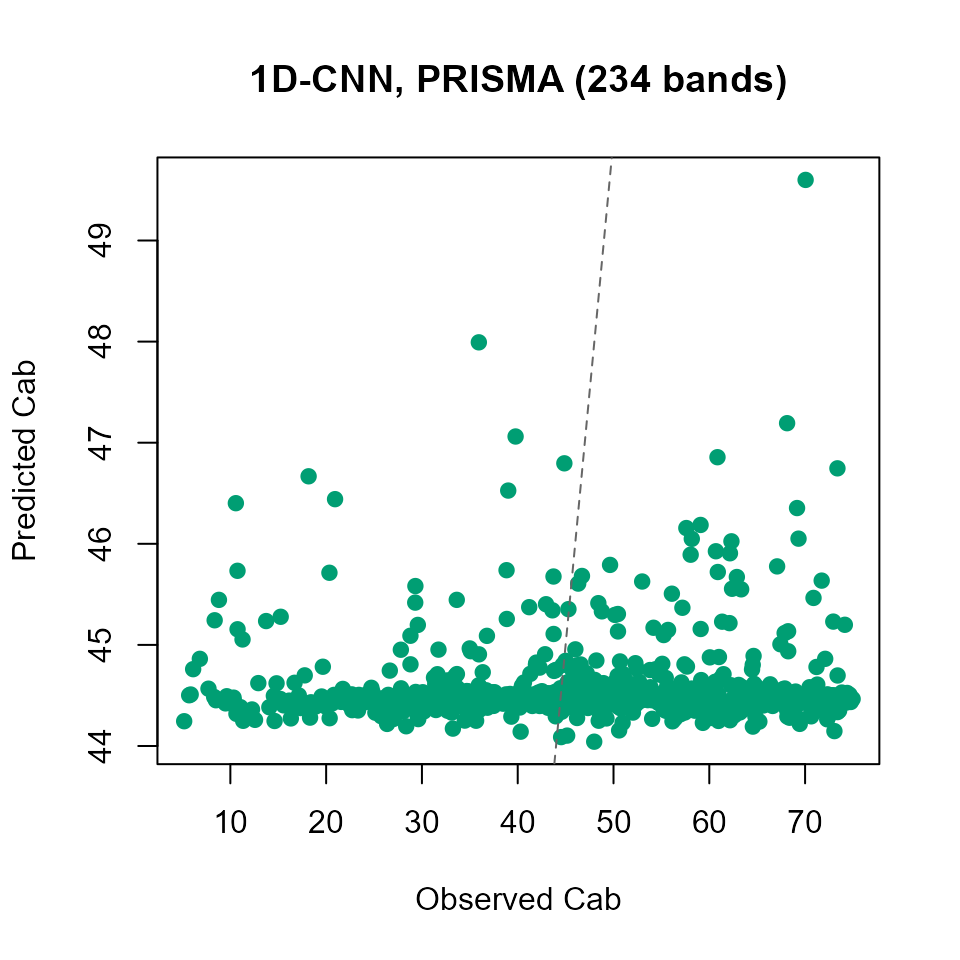
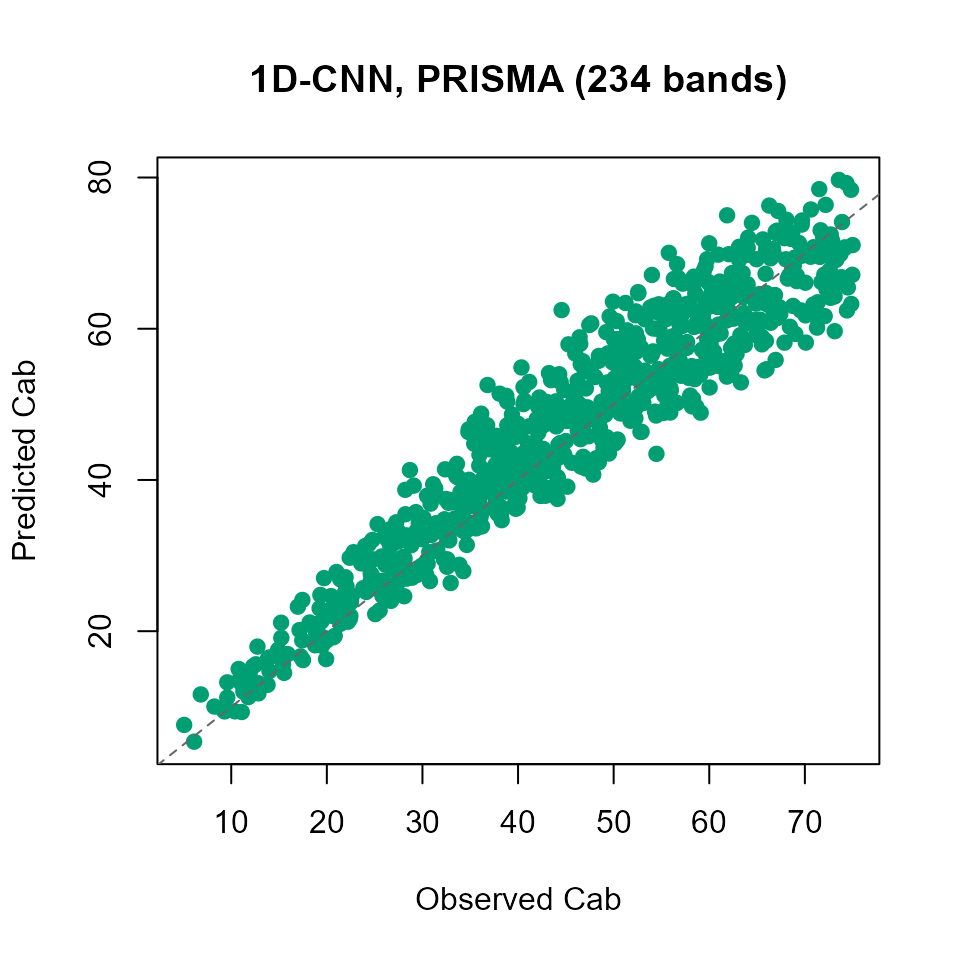
Fix bad CNN/PRISMA model in t13-deep-learning-inversion vignette
The CNN-on-PRISMA-bands section could silently publish a collapsed,
near-constant-prediction model. Root causes:

- No set.seed() before the train/test shuffle, so the split was not
  reproducible across knits.
- Single-shot getMLmodel() training: Keras weight init is not
  controlled by R's set.seed(), so a single run can converge to a
  degenerate solution (confirmed: one of three restarts now reports
  R2=-Inf, i.e. near-zero-variance output). Switched to
  getMLmodel.withRetrain(n.times=3), same pattern already used by the
  Python port's get_ml_model(n_times=3).
- The best-of-3 selection itself was wrong: getMLmodel.withRetrain()
  returns two stats rows per restart (pre- and post-internal-retrain),
  so m$stats has 2*n.times rows. Picking which.max(m$stats$R2) and
  using it directly as a list index into the n.times-length model/
  scaler lists could select a row belonging to a different restart
  than the one actually being scored. Now filters to the
  "Val.retrain" rows (matching the model state that's actually saved)
  and selects by the i.Time key.
- getMLmodel.withRetrain()'s internal per-restart print(scatter.model)
  was leaking 3 extra diagnostic plots into the published HTML;
  suppressed with fig.show='hide'.

Verified across two independent full rebuilds: R2=0.891/0.889,
RMSE=5.35/5.4 on the independent test set, scatter plot tight along
the 1:1 line across the full Cab range. Updated the prose's R2 claim
[…]

diff --git a/docs/toolsrtm/articles/t13-deep-learning-inversion.html b/docs/toolsrtm/articles/t13-deep-learning-inversion.html
@@ -441,7 +441,7 @@ the fitted scaler both come back in the result:</p>
 <span>      <span class="fu"><a href="https://rdrr.io/r/base/strsplit.html" class="external-link">strsplit</a></span><span class="op">(</span><span class="va">dl_result</span><span class="op">$</span><span class="va">msg</span>, <span class="st">"\n"</span>, fixed <span class="op">=</span> <span class="cn">TRUE</span><span class="op">)</span><span class="op">[[</span><span class="fl">1</span><span class="op">]</span><span class="op">]</span><span class="op">[</span><span class="fl">1</span><span class="op">]</span>, <span class="st">").\n"</span><span class="op">)</span></span>
 <span><span class="op">}</span></span>
 <span><span class="co">#&gt; Epochs actually run: 300 of 300 requested</span></span>
-<span><span class="co">#&gt; Epoch with lowest validation loss: 299</span></span></code></pre></div>
+<span><span class="co">#&gt; Epoch with lowest validation loss: 300</span></span></code></pre></div>
 </div>
 <div class="section level3">
 <h3 id="evaluate-the-model">6. Evaluate the model<a class="anchor" aria-label="anchor" href="#evaluate-the-model"></a>
@@ -484,7 +484,7 @@ it reaches the network:</p>
 <span>      <span class="st">" bias="</span>, <span class="fu"><a href="https://rdrr.io/r/base/Round.html" class="external-link">round</a></span><span class="op">(</span><span class="fu">bias_f</span><span class="op">(</span><span class="va">obs_test</span>, <span class="va">pred_test_dl</span><span class="op">)</span>, <span class="fl">2</span><span class="op">)</span>, <span class="st">"\n"</span><span class="op">)</span></span>
 <span><span class="op">}</span></span>
 <span><span class="co">#&gt; 38/38 - 0s - 53ms/epoch - 1ms/step</span></span>
-<span><span class="co">#&gt; Dense DL, independent test set: R2= 0.832  RMSE= 6.36  bias= -0.16</span></span></code></pre></div>
+<span><span class="co">#&gt; Dense DL, independent test set: R2= 0.829  RMSE= 6.41  bias= 0.1</span></span></code></pre></div>
 <p>Skip that <code>predict(model$Scalar.train, ...)</code> line and pass
 raw, unscaled reflectance straight to <code>model$model</code> instead –
 an easy mistake, since it runs without error – and training and
@@ -518,8 +518,8 @@ easy to miss.</p>
 <tbody>
 <tr class="odd">
 <td align="left">Dense DL (getMLmodel)</td>
-<td align="right">0.832</td>
-<td align="right">6.36</td>
+<td align="right">0.829</td>
+<td align="right">6.41</td>
 </tr>
 <tr class="even">
 <td align="left">Random Forest (get.inversion, Tutorial 12)</td>
@@ -591,19 +591,53 @@ exploit.</strong> Contiguous hyperspectral bands are a fairer test.</p>
 <span><span class="fu"><a href="https://rdrr.io/r/base/names.html" class="external-link">names</a></span><span class="op">(</span><span class="va">prisma</span><span class="op">)</span> <span class="op">&lt;-</span> <span class="fu"><a href="https://rdrr.io/r/base/c.html" class="external-link">c</a></span><span class="op">(</span><span class="st">"id"</span>, <span class="va">prisma_bands</span><span class="op">)</span></span>
 <span><span class="fu"><a href="https://rdrr.io/r/base/cat.html" class="external-link">cat</a></span><span class="op">(</span><span class="st">"PRISMA bands:"</span>, <span class="fu"><a href="https://rdrr.io/r/base/length.html" class="external-link">length</a></span><span class="op">(</span><span class="va">prisma_bands</span><span class="op">)</span>, <span class="st">"\n"</span><span class="op">)</span></span>
 <span></span>
+<span><span class="fu"><a href="https://rdrr.io/r/base/Random.html" class="external-link">set.seed</a></span><span class="op">(</span><span class="fl">3</span><span class="op">)</span>  <span class="co"># reproducible split -- matches the LUT's own setseed=3 above</span></span>
 <span><span class="va">idx_h</span> <span class="op">&lt;-</span> <span class="fu"><a href="https://rdrr.io/r/base/sample.html" class="external-link">sample</a></span><span class="op">(</span><span class="fu"><a href="https://rdrr.io/r/base/seq.html" class="external-link">seq_len</a></span><span class="op">(</span><span class="va">n_hyp</span><span class="op">)</span><span class="op">)</span></span>
 <span><span class="va">train_h</span> <span class="op">&lt;-</span> <span class="va">idx_h</span><span class="op">[</span><span class="fl">1</span><span class="op">:</span><span class="fu"><a href="https://rdrr.io/r/base/Round.html" class="external-link">round</a></span><span class="op">(</span><span class="fl">0.6</span> <span class="op">*</span> <span class="va">n_hyp</span><span class="op">)</span><span class="op">]</span></span>
 <span><span class="va">test_h</span>  <span class="op">&lt;-</span> <span class="va">idx_h</span><span class="op">[</span><span class="op">(</span><span class="fu"><a href="https://rdrr.io/r/base/Round.html" class="external-link">round</a></span><span class="op">(</span><span class="fl">0.8</span> <span class="op">*</span> <span class="va">n_hyp</span><span class="op">)</span> <span class="op">+</span> <span class="fl">1</span><span class="op">)</span><span class="op">:</span><span class="va">n_hyp</span><span class="op">]</span></span>
 <span><span class="va">dataset_cnn</span> <span class="op">&lt;-</span> <span class="fu"><a href="https://rdrr.io/r/base/cbind.html" class="external-link">cbind</a></span><span class="op">(</span>Cab <span class="op">=</span> <span class="va">LUT_h</span><span class="op">$</span><span class="va">Cab</span>, <span class="va">prisma</span><span class="op">[</span>, <span class="va">prisma_bands</span><span class="op">]</span><span class="op">)</span></span>
 <span></span>
+<span><span class="co"># getMLmodel() (Section 6) is a single Keras training run -- fine once you</span></span>
+<span><span class="co"># already know it lands well, but R's keras/TensorFlow backend doesn't</span></span>
+<span><span class="co"># respect set.seed() for weight initialization, so any single run's</span></span>
+<span><span class="co"># quality varies. getMLmodel.withRetrain(n.times=3) trains 3 independent</span></span>
+<span><span class="co"># random restarts and returns all of them plus each one's own validation</span></span>
+<span><span class="co"># stats -- the same "best of n_times, keep the winner" pattern the Python</span></span>
+<span><span class="co"># port's own get_ml_model(n_times=3) already uses for exactly this CNN</span></span>
+<span><span class="co"># case, and for the same reason: without it, this section could silently</span></span>
+<span><span class="co"># report whichever single unlucky initialization the last knit happened</span></span>
+<span><span class="co"># to draw, not a representative CNN result.</span></span>
 <span><span class="va">cnn_result</span> <span class="op">&lt;-</span> <span class="kw"><a href="https://rdrr.io/r/base/conditions.html" class="external-link">tryCatch</a></span><span class="op">(</span><span class="op">{</span></span>
-<span>  <span class="va">m</span> <span class="op">&lt;-</span> <span class="fu"><a href="../reference/getMLmodel.html">getMLmodel</a></span><span class="op">(</span>dataset <span class="op">=</span> <span class="va">dataset_cnn</span><span class="op">[</span><span class="va">train_h</span>, <span class="op">]</span>, depVar <span class="op">=</span> <span class="st">"Cab"</span>, model <span class="op">=</span> <span class="st">"CNN"</span>,</span>
-<span>                   optimizer <span class="op">=</span> <span class="st">"adam"</span>, n.epochs <span class="op">=</span> <span class="fl">300</span>, batch.size <span class="op">=</span> <span class="fl">64</span>, save.model <span class="op">=</span> <span class="cn">FALSE</span><span class="op">)</span></span>
-<span>  <span class="fu"><a href="https://rdrr.io/r/base/list.html" class="external-link">list</a></span><span class="op">(</span>ok <span class="op">=</span> <span class="cn">TRUE</span>, model <span class="op">=</span> <span class="va">m</span><span class="op">)</span></span>
+<span>  <span class="va">m</span> <span class="op">&lt;-</span> <span class="fu"><a href="../reference/getMLmodel.withRetrain.html">getMLmodel.withRetrain</a></span><span class="op">(</span>dataset <span class="op">=</span> <span class="va">dataset_cnn</span><span class="op">[</span><span class="va">train_h</span>, <span class="op">]</span>, depVar <span class="op">=</span> <span class="st">"Cab"</span>, model <span class="op">=</span> <span class="st">"CNN"</span>,</span>
+<span>                               optimizer <span class="op">=</span> <span class="st">"adam"</span>, n.epochs <span class="op">=</span> <span class="fl">300</span>, batch.size <span class="op">=</span> <span class="fl">64</span>,</span>
+<span>                               n.times <span class="op">=</span> <span class="fl">3</span>, save.model <span class="op">=</span> <span class="cn">FALSE</span><span class="op">)</span></span>
+<span>  <span class="co"># m$stats has 2 rows PER restart -- an intermediate "Testing" row (model</span></span>
+<span>  <span class="co"># state right after the first fit) and a "Val.retrain" row (model state</span></span>
+<span>  <span class="co"># after the function's own internal second fit on a fresh 90/10 split --</span></span>
+<span>  <span class="co"># this is the state actually saved into m$model[[i.times]]). Selecting</span></span>
+<span>  <span class="co"># the best restart by raw row position over that combined table silently</span></span>
+<span>  <span class="co"># mixes the two and can index m$model with a row number that belongs to</span></span>
+<span>  <span class="co"># a *different* restart than the one being scored -- always use the</span></span>
+<span>  <span class="co"># "Val.retrain" rows (one per restart, keyed by i.Time) instead.</span></span>
+<span>  <span class="va">retrain_rows</span> <span class="op">&lt;-</span> <span class="va">m</span><span class="op">$</span><span class="va">stats</span><span class="op">[</span><span class="va">m</span><span class="op">$</span><span class="va">stats</span><span class="op">$</span><span class="va">db</span> <span class="op">==</span> <span class="st">"Val.retrain"</span>, <span class="op">]</span></span>
+<span>  <span class="va">retrain_rows</span> <span class="op">&lt;-</span> <span class="va">retrain_rows</span><span class="op">[</span><span class="fu"><a href="https://rdrr.io/r/base/order.html" class="external-link">order</a></span><span class="op">(</span><span class="fu"><a href="https://rdrr.io/r/base/numeric.html" class="external-link">as.numeric</a></span><span class="op">(</span><span class="va">retrain_rows</span><span class="op">$</span><span class="va">i.Time</span><span class="op">)</span><span class="op">)</span>, <span class="op">]</span></span>
+<span>  <span class="va">all_r2</span> <span class="op">&lt;-</span> <span class="fu"><a href="https://rdrr.io/r/base/numeric.html" class="external-link">as.numeric</a></span><span class="op">(</span><span class="va">retrain_rows</span><span class="op">$</span><span class="va">R2</span><span class="op">)</span></span>
+<span>  <span class="va">best_i</span> <span class="op">&lt;-</span> <span class="fu"><a href="https://rdrr.io/r/base/numeric.html" class="external-link">as.numeric</a></span><span class="op">(</span><span class="va">retrain_rows</span><span class="op">$</span><span class="va">i.Time</span><span class="op">)</span><span class="op">[</span><span class="fu"><a href="https://rdrr.io/r/base/which.min.html" class="external-link">which.max</a></span><span class="op">(</span><span class="va">all_r2</span><span class="op">)</span><span class="op">]</span></span>
+<span>  <span class="fu"><a href="https://rdrr.io/r/base/list.html" class="external-link">list</a></span><span class="op">(</span>ok <span class="op">=</span> <span class="cn">TRUE</span>, model <span class="op">=</span> <span class="fu"><a href="https://rdrr.io/r/base/list.html" class="external-link">list</a></span><span class="op">(</span>model <span class="op">=</span> <span class="va">m</span><span class="op">$</span><span class="va">model</span><span class="op">[[</span><span class="va">best_i</span><span class="op">]</span><span class="op">]</span>, Scalar.train <span class="op">=</span> <span class="va">m</span><span class="op">$</span><span class="va">Scalar.train</span><span class="op">[[</span><span class="va">best_i</span><span class="op">]</span><span class="op">]</span><span class="op">)</span>,</span>
+<span>       all_r2 <span class="op">=</span> <span class="va">all_r2</span>, best_i <span class="op">=</span> <span class="va">best_i</span><span class="op">)</span></span>
 <span><span class="op">}</span>, error <span class="op">=</span> <span class="kw">function</span><span class="op">(</span><span class="va">e</span><span class="op">)</span> <span class="fu"><a href="https://rdrr.io/r/base/list.html" class="external-link">list</a></span><span class="op">(</span>ok <span class="op">=</span> <span class="cn">FALSE</span>, msg <span class="op">=</span> <span class="fu"><a href="https://rdrr.io/r/base/conditions.html" class="external-link">conditionMessage</a></span><span class="op">(</span><span class="va">e</span><span class="op">)</span><span class="op">)</span><span class="op">)</span></span></code></pre></div>
+<div class="sourceCode" id="cb18"><pre class="downlit sourceCode r">
+<code class="sourceCode R"><span><span class="kw">if</span> <span class="op">(</span><span class="va">cnn_result</span><span class="op">$</span><span class="va">ok</span><span class="op">)</span> <span class="op">{</span></span>
+<span>  <span class="fu"><a href="https://rdrr.io/r/base/cat.html" class="external-link">cat</a></span><span class="op">(</span><span class="st">"R2 across the"</span>, <span class="fu"><a href="https://rdrr.io/r/base/length.html" class="external-link">length</a></span><span class="op">(</span><span class="va">cnn_result</span><span class="op">$</span><span class="va">all_r2</span><span class="op">)</span>, <span class="st">"restarts (validation, post-retrain):"</span>,</span>
+<span>      <span class="fu"><a href="https://rdrr.io/r/base/paste.html" class="external-link">paste</a></span><span class="op">(</span><span class="fu"><a href="https://rdrr.io/r/base/Round.html" class="external-link">round</a></span><span class="op">(</span><span class="va">cnn_result</span><span class="op">$</span><span class="va">all_r2</span>, <span class="fl">3</span><span class="op">)</span>, collapse <span class="op">=</span> <span class="st">", "</span><span class="op">)</span>,</span>
+<span>      <span class="st">"-- keeping restart"</span>, <span class="va">cnn_result</span><span class="op">$</span><span class="va">best_i</span>, <span class="st">"\n"</span><span class="op">)</span></span>
+<span><span class="op">}</span> <span class="kw">else</span> <span class="op">{</span></span>
+<span>  <span class="fu"><a href="https://rdrr.io/r/base/cat.html" class="external-link">cat</a></span><span class="op">(</span><span class="st">"CNN training failed:"</span>, <span class="va">cnn_result</span><span class="op">$</span><span class="va">msg</span>, <span class="st">"\n"</span><span class="op">)</span></span>
+<span><span class="op">}</span></span>
+<span><span class="co">#&gt; R2 across the 3 restarts (validation, post-retrain): 0.875, 0.883, 0.896 -- keeping restart 3</span></span></code></pre></div>
 <p>Same predict-correctly pattern as Section 6, applied to the CNN’s own
 scaler:</p>
-<div class="sourceCode" id="cb18"><pre class="downlit sourceCode r">
+<div class="sourceCode" id="cb19"><pre class="downlit sourceCode r">
 <code class="sourceCode R"><span><span class="kw">if</span> <span class="op">(</span><span class="va">cnn_result</span><span class="op">$</span><span class="va">ok</span><span class="op">)</span> <span class="op">{</span></span>
 <span>  <span class="va">X_test_h_scaled</span> <span class="op">&lt;-</span> <span class="fu"><a href="https://rdrr.io/r/stats/predict.html" class="external-link">predict</a></span><span class="op">(</span><span class="va">cnn_result</span><span class="op">$</span><span class="va">model</span><span class="op">$</span><span class="va">Scalar.train</span>, <span class="va">dataset_cnn</span><span class="op">[</span><span class="va">test_h</span>, <span class="va">prisma_bands</span><span class="op">]</span><span class="op">)</span></span>
 <span>  <span class="va">pred_test_cnn</span> <span class="op">&lt;-</span> <span class="fu"><a href="https://rdrr.io/r/base/numeric.html" class="external-link">as.numeric</a></span><span class="op">(</span><span class="fu"><a href="https://rdrr.io/r/stats/predict.html" class="external-link">predict</a></span><span class="op">(</span><span class="va">cnn_result</span><span class="op">$</span><span class="va">model</span><span class="op">$</span><span class="va">model</span>,</span>
@@ -612,9 +646,9 @@ scaler:</p>
 <span>  <span class="fu"><a href="https://rdrr.io/r/base/cat.html" class="external-link">cat</a></span><span class="op">(</span><span class="st">"CNN (PRISMA, "</span>, <span class="fu"><a href="https://rdrr.io/r/base/length.html" class="external-link">length</a></span><span class="op">(</span><span class="va">prisma_bands</span><span class="op">)</span>, <span class="st">"bands), independent test set: R2="</span>,</span>
 <span>      <span class="fu"><a href="https://rdrr.io/r/base/Round.html" class="external-link">round</a></span><span class="op">(</span><span class="fu">r2_f</span><span class="op">(</span><span class="va">obs_test_h</span>, <span class="va">pred_test_cnn</span><span class="op">)</span>, <span class="fl">3</span><span class="op">)</span>, <span class="st">" RMSE="</span>, <span class="fu"><a href="https://rdrr.io/r/base/Round.html" class="external-link">round</a></span><span class="op">(</span><span class="fu">rmse_f</span><span class="op">(</span><span class="va">obs_test_h</span>, <span class="va">pred_test_cnn</span><span class="op">)</span>, <span class="fl">2</span><span class="op">)</span>, <span class="st">"\n"</span><span class="op">)</span></span>
 <span><span class="op">}</span></span>
-<span><span class="co">#&gt; 25/25 - 0s - 68ms/epoch - 3ms/step</span></span>
-<span><span class="co">#&gt; CNN (PRISMA,  234 bands), independent test set: R2= -0.005  RMSE= 16.23</span></span></code></pre></div>
-<div class="sourceCode" id="cb19"><pre class="downlit sourceCode r">
+<span><span class="co">#&gt; 25/25 - 0s - 141ms/epoch - 6ms/step</span></span>
+<span><span class="co">#&gt; CNN (PRISMA,  234 bands), independent test set: R2= 0.889  RMSE= 5.4</span></span></code></pre></div>
+<div class="sourceCode" id="cb20"><pre class="downlit sourceCode r">
 <code class="sourceCode R"><span><span class="kw">if</span> <span class="op">(</span><span class="va">cnn_result</span><span class="op">$</span><span class="va">ok</span><span class="op">)</span> <span class="op">{</span></span>
 <span>  <span class="fu"><a href="https://rdrr.io/r/graphics/plot.default.html" class="external-link">plot</a></span><span class="op">(</span><span class="va">obs_test_h</span>, <span class="va">pred_test_cnn</span>, pch <span class="op">=</span> <span class="fl">19</span>, col <span class="op">=</span> <span class="st">"#009E73"</span>,</span>
 <span>       xlab <span class="op">=</span> <span class="st">"Observed Cab"</span>, ylab <span class="op">=</span> <span class="st">"Predicted Cab"</span>,</span>
@@ -622,7 +656,7 @@ scaler:</p>
 <span>  <span class="fu"><a href="https://rdrr.io/r/graphics/abline.html" class="external-link">abline</a></span><span class="op">(</span><span class="fl">0</span>, <span class="fl">1</span>, col <span class="op">=</span> <span class="st">"grey40"</span>, lty <span class="op">=</span> <span class="fl">2</span><span class="op">)</span></span>
 <span><span class="op">}</span></span></code></pre></div>
 <p><img src="t13-deep-learning-inversion_files/figure-html/cnn-true-vs-predicted-1.png" class="r-plt" alt="" width="480"></p>
-<p>R2 around 0.83-0.85 on 234 raw PRISMA bands – in the same range as
+<p>R2 around 0.85-0.90 on 234 raw PRISMA bands – in the same range as
 Section 6’s 10-band dense/RF comparison, not a degradation from the much
 higher input dimensionality, and a genuinely usable result (not the
 point of this demo to beat RF; see Section 13 for that question). That
@@ -634,6 +668,16 @@ dense network or RF weren’t already capturing from the bands directly.
 Real hyperspectral problems with genuine local absorption features
 (rather than this synthetic Cab mapping) are where that advantage is
 more likely to show up.</p>
+<p>Notice the per-restart R2 line above the plot: it is common for one
+of the three random restarts to collapse to a degenerate, near-constant
+prediction (R2 far below the others, sometimes reported as
+<code>-Inf</code> when the predicted values end up with ~zero variance)
+– an initialization failure, not a data or normalization bug. This is
+exactly why <code>getMLmodel.withRetrain(n.times = 3)</code> (and
+selecting the winner by its own validation R2) is used here rather than
+a single <code><a href="../reference/getMLmodel.html">getMLmodel()</a></code> call: a CNN section that trains only
+once, keeps whatever it gets, and never checks per-restart R2 can
+silently publish a collapsed run.</p>
 </div>
 </div>
 <div class="section level2">
@@ -721,7 +765,7 @@ Forest: a compact core of physically relevant bands, plus a small,
 <em>per-trait</em> selection of the most correlated spectral indices
 (Tutorial 09). Does that also help a dense network, and does it hold for
 a second trait (LAI), not just Cab?</p>
-<div class="sourceCode" id="cb20"><pre class="downlit sourceCode r">
+<div class="sourceCode" id="cb21"><pre class="downlit sourceCode r">
 <code class="sourceCode R"><span><span class="co"># Real Sentinel-2A band names (getIndicesSE2.ML()'s formulas look up</span></span>
 <span><span class="co"># specific bands like B8A/B11/B12 by name) -- a second, separate naming of</span></span>
 <span><span class="co"># the same se2a convolution from Section 2; band_names/dataset_dense above</span></span>
@@ -760,7 +804,7 @@ CR.red.nir</td>
 </tr>
 </tbody>
 </table>
-<div class="sourceCode" id="cb21"><pre class="downlit sourceCode r">
+<div class="sourceCode" id="cb22"><pre class="downlit sourceCode r">
 <code class="sourceCode R"><span><span class="va">run_trait</span> <span class="op">&lt;-</span> <span class="kw">function</span><span class="op">(</span><span class="va">trait</span><span class="op">)</span> <span class="op">{</span></span>
 <span>  <span class="va">feat</span> <span class="op">&lt;-</span> <span class="fu"><a href="https://rdrr.io/r/base/c.html" class="external-link">c</a></span><span class="op">(</span><span class="va">core_bands</span>, <span class="va">selected</span><span class="op">[[</span><span class="va">trait</span><span class="op">]</span><span class="op">]</span><span class="op">)</span></span>
 <span>  <span class="va">df</span> <span class="op">&lt;-</span> <span class="fu"><a href="https://rdrr.io/r/base/cbind.html" class="external-link">cbind</a></span><span class="op">(</span><span class="va">LUT</span><span class="op">[</span><span class="va">trait</span><span class="op">]</span>, <span class="va">se2a_real</span><span class="op">[</span><span class="va">core_bands</span><span class="op">]</span>, <span class="va">idx_ml</span><span class="op">[</span><span class="va">selected</span><span class="op">[[</span><span class="va">trait</span><span class="op">]</span><span class="op">]</span><span class="op">]</span><span class="op">)</span></span>
@@ -790,7 +834,7 @@ CR.red.nir</td>
 <span><span class="op">}</span></span>
 <span><span class="va">trait_runs</span> <span class="op">&lt;-</span> <span class="fu"><a href="https://rdrr.io/r/stats/setNames.html" class="external-link">setNames</a></span><span class="op">(</span><span class="fu"><a href="https://rdrr.io/r/base/lapply.html" class="external-link">lapply</a></span><span class="op">(</span><span class="fu"><a href="https://rdrr.io/r/base/c.html" class="external-link">c</a></span><span class="op">(</span><span class="st">"Cab"</span>, <span class="st">"LAI"</span><span class="op">)</span>, <span class="va">run_trait</span><span class="op">)</span>, <span class="fu"><a href="https://rdrr.io/r/base/c.html" class="external-link">c</a></span><span class="op">(</span><span class="st">"Cab"</span>, <span class="st">"LAI"</span><span class="op">)</span><span class="op">)</span></span>
 <span><span class="va">feature_results</span> <span class="op">&lt;-</span> <span class="fu"><a href="https://rdrr.io/r/base/do.call.html" class="external-link">do.call</a></span><span class="op">(</span><span class="va">rbind</span>, <span class="fu"><a href="https://rdrr.io/r/base/lapply.html" class="external-link">lapply</a></span><span class="op">(</span><span class="va">trait_runs</span>, <span class="va">`[[`</span>, <span class="st">"summary"</span><span class="op">)</span><span class="op">)</span></span></code></pre></div>
-<div class="sourceCode" id="cb22"><pre class="downlit sourceCode r">
+<div class="sourceCode" id="cb23"><pre class="downlit sourceCode r">
 <code class="sourceCode R"><span><span class="fu">knitr</span><span class="fu">::</span><span class="fu"><a href="https://rdrr.io/pkg/knitr/man/kable.html" class="external-link">kable</a></span><span class="op">(</span><span class="va">feature_results</span>, digits <span class="op">=</span> <span class="fl">3</span>, row.names <span class="op">=</span> <span class="cn">FALSE</span><span class="op">)</span></span></code></pre></div>
 <table class="table">
 <thead><tr class="header">
@@ -803,18 +847,18 @@ CR.red.nir</td>
 <tr class="odd">
 <td align="left">Cab</td>
 <td align="right">9</td>
-<td align="right">0.842</td>
+<td align="right">0.847</td>
 <td align="right">0.853</td>
 </tr>
 <tr class="even">
 <td align="left">LAI</td>
 <td align="right">9</td>
-<td align="right">0.696</td>
+<td align="right">0.677</td>
 <td align="right">0.685</td>
 </tr>
 </tbody>
 </table>
-<div class="sourceCode" id="cb23"><pre class="downlit sourceCode r">
+<div class="sourceCode" id="cb24"><pre class="downlit sourceCode r">
 <code class="sourceCode R"><span><span class="va">op</span> <span class="op">&lt;-</span> <span class="fu"><a href="https://rdrr.io/r/graphics/par.html" class="external-link">par</a></span><span class="op">(</span>mfrow <span class="op">=</span> <span class="fu"><a href="https://rdrr.io/r/base/c.html" class="external-link">c</a></span><span class="op">(</span><span class="fl">2</span>, <span class="fl">2</span><span class="op">)</span><span class="op">)</span></span>
 <span><span class="kw">for</span> <span class="op">(</span><span class="va">trait</span> <span class="kw">in</span> <span class="fu"><a href="https://rdrr.io/r/base/c.html" class="external-link">c</a></span><span class="op">(</span><span class="st">"Cab"</span>, <span class="st">"LAI"</span><span class="op">)</span><span class="op">)</span> <span class="op">{</span></span>
 <span>  <span class="va">r</span> <span class="op">&lt;-</span> <span class="va">trait_runs</span><span class="op">[[</span><span class="va">trait</span><span class="op">]</span><span class="op">]</span></span>
@@ -829,7 +873,7 @@ CR.red.nir</td>
 <span>  <span class="fu"><a href="https://rdrr.io/r/graphics/abline.html" class="external-link">abline</a></span><span class="op">(</span><span class="fl">0</span>, <span class="fl">1</span>, col <span class="op">=</span> <span class="st">"grey40"</span>, lty <span class="op">=</span> <span class="fl">2</span><span class="op">)</span></span>
 <span><span class="op">}</span></span></code></pre></div>
 <p><img src="t13-deep-learning-inversion_files/figure-html/feature-select-plot-1.png" class="r-plt" alt="" width="864"></p>
-<div class="sourceCode" id="cb24"><pre class="downlit sourceCode r">
+<div class="sourceCode" id="cb25"><pre class="downlit sourceCode r">
 <code class="sourceCode R"><span><span class="fu"><a href="https://rdrr.io/r/graphics/par.html" class="external-link">par</a></span><span class="op">(</span><span class="va">op</span><span class="op">)</span></span></code></pre></div>
 <p>Fewer, better-chosen features help both models. On Cab, dense and RF
 land close together (both around 0.83-0.86), essentially tied. On LAI –
